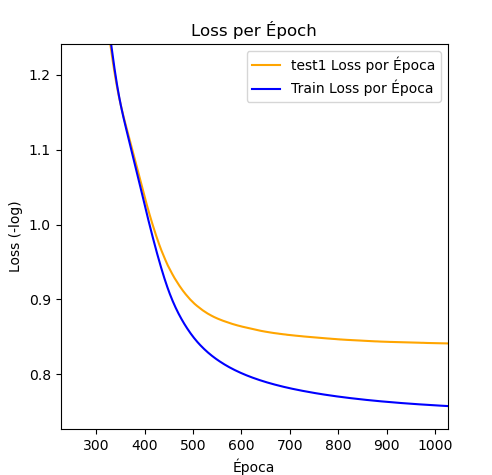
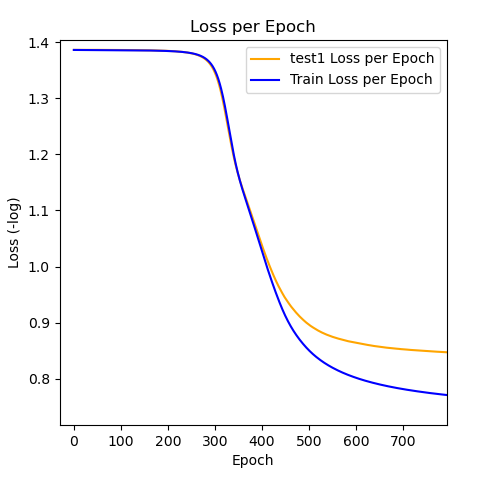
added pdf presentation

diff --git a/run_network_3HL.py b/run_network_3HL.py
@@ -20,11 +20,11 @@ class import_datasets:
         # self.load_test_data = dataset
         return dataset
 
-    def custom_train_val_test_split(self, X, y, val_size, test_size, random_state):
+    def custom_train_val_test_split(self, X, y, test1_size, test_size, random_state):
         np.random.seed(random_state)
         shuffled_indices = np.random.permutation(len(X))
         
-        val_set_size = int(len(X) * val_size)
+        val_set_size = int(len(X) * test1_size)
         test_set_size = int(len(X) * test_size)
         
         val_indices = shuffled_indices[:val_set_size]
@@ -72,7 +72,7 @@ def confusion_matrix(y_true, y_pred, num_classes):
     return cm
 
 def main():
-    val_size = 0.1
+    test1_size = 0.1
     test_size = 0.1
     random_state = 133
 
@@ -82,7 +82,7 @@ def main():
     X = train_data.drop('price_range', axis=1)
     y = train_data['price_range']
 
-    X_train, X_val, X_test, y_train, y_val, y_test = p.custom_train_val_test_split(X, y, val_size, test_size, random_state)
+    X_train, X_val, X_test, y_train, y_val, y_test = p.custom_train_val_test_split(X, y, test1_size, test_size, random_state)
 
     X_train, X_val, X_test, y_train, y_val, y_test =  np.array(X_train), np.array(X_val), np.array(X_test), np.array(y_train), np.array(y_val), np.array(y_test)
 
@@ -95,21 +95,23 @@ def main():
     n_inputs = len(X_train_normalized[0])
     n_outputs = 4  # 4 -> output classes based on the provided dataset
    
-    dense1 = Layer_Dense(n_inputs, 32)  # usando uma camada inicial com 32 neurônios
+    dense1 = Layer_Dense(n_inputs, 32)  # Inicial Layer with 32 Neurons
+    # ReLU actovation function for all layers except output
     activation1 = activation_ReLU()
-    dense2 = Layer_Dense(32, 16)  # primeira camada escondida com 16 neurônios e ReLU
-    activation2 = activation_ReLU()  # ativação ReLU para a primeira camada escondida
-    dense3 = Layer_Dense(16, 8)  # segunda camada escondida com 8 neurônios e ReLU
-    activation3 = activation_ReLU()  # ativação ReLU para a segunda camada escondida
-    dense4 = Layer_Dense(8, n_outputs)  # Camada de saída
-    activation4 = activation_softmax()
+    dense2 = Layer_Dense(32, 16)  # Hidden layer with 16 neurons
+    activation2 = activation_ReLU()
+    dense3 = Layer_Dense(16, 8)  # Hidden layer with 8 neurons
+    activation3 = activation_ReLU()
+    dense4 = Layer_Dense(8, n_outputs)  # Output layer with N outputs to match the categories
+                                        # In this case, N is 4
+    activation4 = activation_softmax()  # Softmax activation for output layer  
 
 
     softmax_loss = Activation_Softmax_Loss_CategoricalCrossentropy()
     optimizer = Optimizer_SGD(learning_rate=0.1)  # Adjust the learning rate as needed
 
     # setting hyperparameters
-    num_epochs = 100
+    num_epochs = 5000
     rms_errors = [] 
 
 
@@ -128,7 +130,7 @@ def main():
         dense4_output = dense4.forward(activation3_output)
         train_output = activation4.forward(dense4_output)
 
-        # Calcular a perda
+        # Calculates Loss
         loss = softmax_loss.forward(train_output, y_train)
 
         # Backward pass
@@ -144,7 +146,7 @@ def main():
         activation1.backward(dense2.dinputs)
         dense1.backward(activation1.dinputs)
 
-        # Atualizar pesos e biases
+        # Update weights & biases
         optimizer.update_params(dense1)
         optimizer.update_params(dense2)
         optimizer.update_params(dense3)
@@ -230,11 +232,11 @@ def main():
 
     # Plotting loss per epoch
     plt.figure(figsize=(5, 5))
-    plt.plot(range(epoch+1), test1_losses, label='test1 Loss por Época', color='orange')
-    plt.plot(range(epoch+1), train_losses, label='Train Loss por Época', color='blue')
-    plt.xlabel('Época')
+    plt.plot(range(epoch+1), test1_losses, label='test1 Loss per Epoch', color='orange')
+    plt.plot(range(epoch+1), train_losses, label='Train Loss per Epoch', color='blue')
+    plt.xlabel('Epoch')
     plt.ylabel('Loss (-log)')
-    plt.title('Loss per Époch')
+    plt.title('Loss per Epoch')
     plt.legend()
     plt.show()
 

diff --git a/Neural_Network.py b/Neural_Network.py
@@ -170,11 +170,6 @@ class Optimizer_SGD:
      self.learning_rate = learning_rate
      self.iterations = 0
 
-     def pre_update_params(self):
-        if self.decay:
-            self.current_learning_rate = self.learning_rate * \
-            (1. / (1. + self.decay * self.iterations))
-        
     # Update parameters
     def update_params(self, layer):
         layer.weights += -self.learning_rate * layer.dweights
